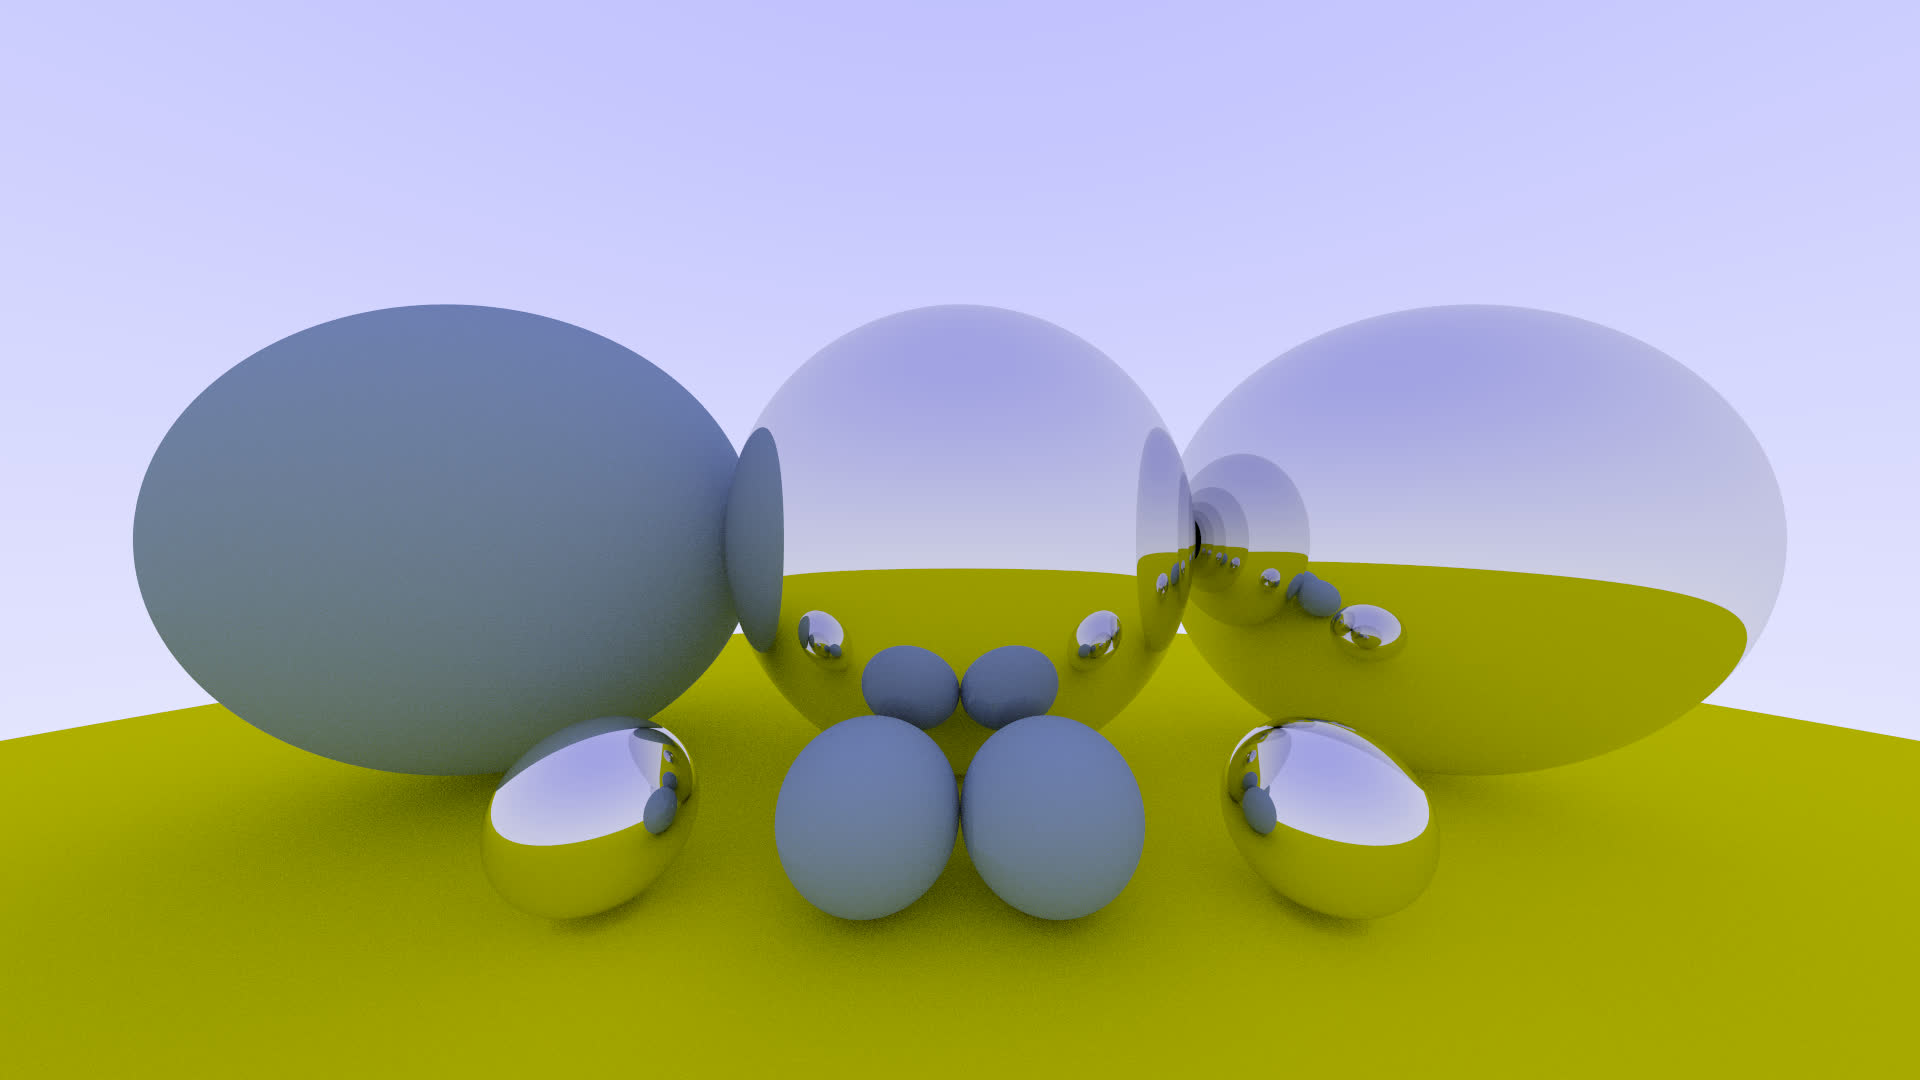
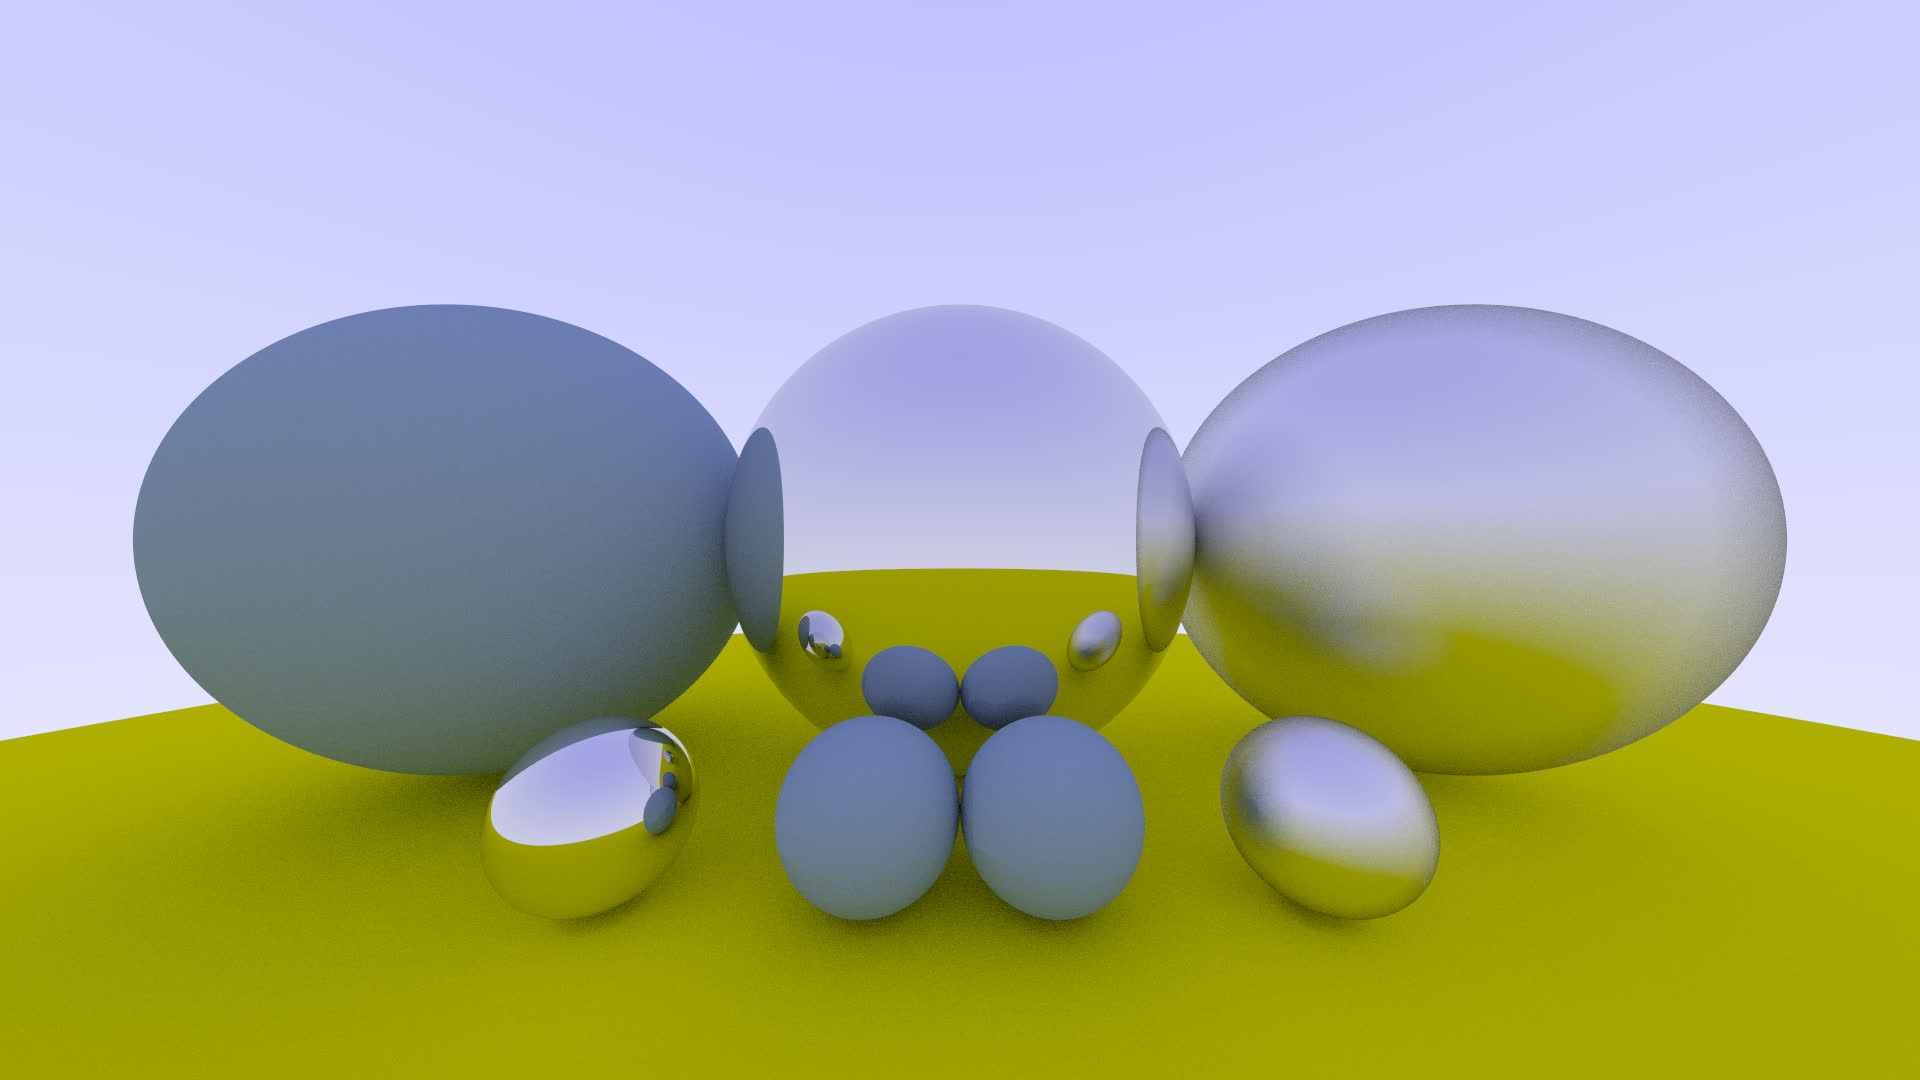
add fuzzy reflection
restructure code

diff --git a/src/main.c b/src/main.c
@@ -15,16 +15,17 @@ int main(void)
     Camera camera = camera_init(16.0 / 9.0, 1920, 100, 30);
     ShapeVector *world = shape_vector_init(10);
     Lambertian ground_material = lambertian_init(color_init(0.8, 0.8, 0.0));
-    Lambertian sphere_fuzzy_material = lambertian_init(color_init(0.3, 0.4, 0.5));
-    Metal sphere_metal_mateiral = metal_init(color_init(0.8, 0.8, 0.8)); 
+    Lambertian lambertian = lambertian_init(color_init(0.3, 0.4, 0.5));
+    Metal smooth_metal = metal_init(color_init(0.8, 0.8, 0.8), 0.0); 
+    Metal fuzzy_metal = metal_init(color_init(0.8, 0.8, 0.8), 0.5); 
     Sphere ground = sphere_init(&ground_material, (Point3){ 0.0, -20.4, -1.0 }, 20.0);
-    Sphere sphere1 = sphere_init(&sphere_fuzzy_material, (Point3){ -0.8, 0.0, -1.0 }, 0.4);
-    Sphere sphere2 = sphere_init(&sphere_metal_mateiral, (Point3){ 0.0, 0.0, -1.0 }, 0.4);
-    Sphere sphere3 = sphere_init(&sphere_metal_mateiral, (Point3){ 0.8, 0.0, -1.0 }, 0.4);
-    Sphere sphere4 = sphere_init(&sphere_metal_mateiral, (Point3){ -0.4, -0.3, -0.6 }, 0.1);
-    Sphere sphere5 = sphere_init(&sphere_metal_mateiral, (Point3){ 0.4, -0.3, -0.6 }, 0.1);
-    Sphere sphere6 = sphere_init(&sphere_fuzzy_material, (Point3){ -0.1, -0.3, -0.6 }, 0.1);
-    Sphere sphere7 = sphere_init(&sphere_fuzzy_material, (Point3){ 0.1, -0.3, -0.6 }, 0.1);
+    Sphere sphere1 = sphere_init(&lambertian, (Point3){ -0.8, 0.0, -1.0 }, 0.4);
+    Sphere sphere2 = sphere_init(&smooth_metal, (Point3){ 0.0, 0.0, -1.0 }, 0.4);
+    Sphere sphere3 = sphere_init(&fuzzy_metal, (Point3){ 0.8, 0.0, -1.0 }, 0.4);
+    Sphere sphere4 = sphere_init(&smooth_metal, (Point3){ -0.4, -0.3, -0.6 }, 0.1);
+    Sphere sphere5 = sphere_init(&fuzzy_metal, (Point3){ 0.4, -0.3, -0.6 }, 0.1);
+    Sphere sphere6 = sphere_init(&lambertian, (Point3){ -0.1, -0.3, -0.6 }, 0.1);
+    Sphere sphere7 = sphere_init(&lambertian, (Point3){ 0.1, -0.3, -0.6 }, 0.1);
     shape_vector_push(world, &ground);
     shape_vector_push(world, &sphere1);
     shape_vector_push(world, &sphere2);

diff --git a/src/metal.c b/src/metal.c
@@ -1,0 +1,28 @@
+#include "metal.h"
+#include "shape.h"
+#include "ray.h"
+#include "vec3.h"
+#include "common.h"
+#include <stdbool.h>
+
+static bool metal_scatter(Material *material, Ray *ray_in, struct HitRecord *record, Color *attenuation, Ray *ray_out)
+{
+    Metal *metal = (Metal*)material;
+    Vec3 scaled_normal = vec3_mul_scalar(&record->normal, 2, -vec3_dot(&ray_in->direction, &record->normal), 2.0);
+    Vec3 reflection_direction = vec3_add(&ray_in->direction, 1, &scaled_normal);
+    Vec3 unit_reflection_direction = vec3_unit_vector(&reflection_direction);
+    Vec3 rand_unit_vec = rand_unit_vec3();
+    Vec3 fuzzy_rand_unit_vec = vec3_mul_scalar(&rand_unit_vec, 1, metal->fuzzy_rate);
+    Vec3 fuzzy_direction = vec3_add(&unit_reflection_direction, 1, &fuzzy_rand_unit_vec);
+    *ray_out = (Ray){ .origin = record->hit_point, .direction = fuzzy_direction };
+    *attenuation = material_atternuation(metal);
+    return vec3_dot(&ray_out->direction, &record->normal) > 0;
+}
+
+Metal metal_init(Color albedo, double fuzzy_rate)
+{
+    static struct MaterialVTable vtbl = { .scatter = &metal_scatter, .attenuation = NULL };
+    if (fuzzy_rate <= 0.0) fuzzy_rate = 0.0;
+    if (fuzzy_rate >= 1)   fuzzy_rate = 1.0;
+    return (Metal){ .material = material_init(&vtbl, albedo), .fuzzy_rate = fuzzy_rate };
+}

diff --git a/include/metal.h b/include/metal.h
@@ -6,8 +6,9 @@
 
 typedef struct {
     Material material;
+    double fuzzy_rate;
 } Metal;
 
-Metal metal_init(Color albedo);
+Metal metal_init(Color albedo, double fuzzy_rate);
 
 #endif // METAL_H_
